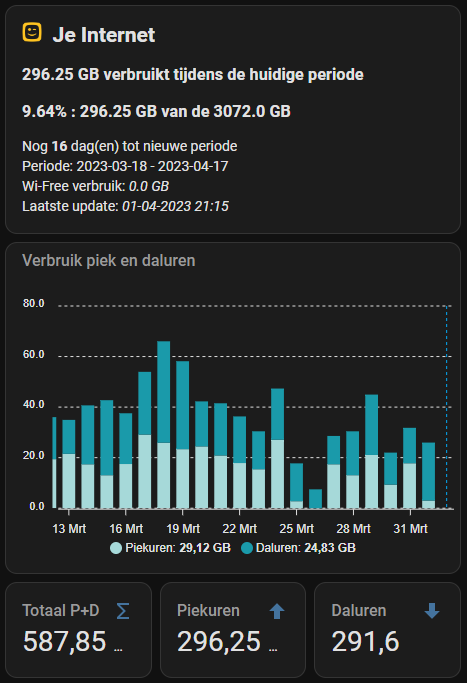
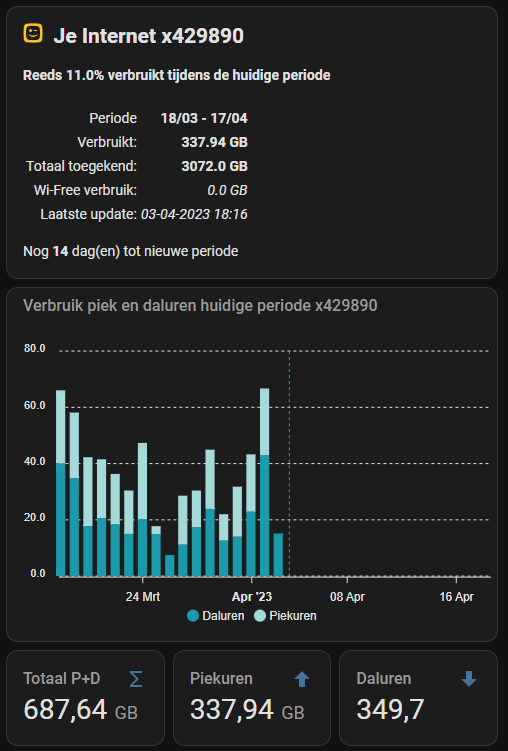
Readme and image for peak/offpeak

diff --git a/README.md b/README.md
@@ -100,96 +100,123 @@ recorder:
 
 <details><summary>Show markdown code</summary>
 
-**Replace &lt;identifier&gt; by your Telenet identifier and &lt;customer_id&gt; by your Telenet account ID**
+**Replace &lt;identifier&gt; by your Telenet identifier**
+
+(Only at 2 places)
 
 ```
 type: vertical-stack
 cards:
-  - type: markdown
-    content: >-
-      ## <img src="https://brands.home-assistant.io/telenet/icon.png"
-      width="20"/>&nbsp;&nbsp;Je Internet
+  - type: custom:config-template-card
+    variables:
+      internet:
+        identifier: <identifier>
+    entities:
+      - ${"sensor.telenet_"+internet.identifier+"_internet_usage"}
+    card:
+      type: vertical-stack
+      cards:
+        - type: markdown
+          content: >-
+            {% set identifier = "<identifier>"%} {% set internet_usage =
+            "sensor.telenet_"+identifier+"_internet_usage"%}
 
-      ###
-      **{{state_attr('sensor.telenet_<identifier>_internet_usage','total_usage')}}**
-      verbruikt tijdens de huidige periode
+            ## <img src="https://brands.home-assistant.io/telenet/icon.png"
+            width="20"/>&nbsp;&nbsp;Je Internet {{identifier}}
+
+            #### Reeds **{{state_attr(internet_usage,'used_percentage')}}%**
+            verbruikt tijdens de huidige periode
+
+            |||
+
+            |----:|----:|
+
+            | Periode | **{{state_attr(internet_usage,'start_date')|
+            as_timestamp | timestamp_custom("%d/%m")}} -
+            {{state_attr(internet_usage,'end_date')| as_timestamp |
+            timestamp_custom("%d/%m")}}**
+
+            | Verbruikt:|**{{state_attr(internet_usage,'total_usage')}}**
+
+            |Totaal
+            toegekend:|**{{state_attr(internet_usage,'allocated_usage')}}**
+
+            |Wi-Free verbruik:| *{{state_attr(internet_usage,'wifree_usage')}}*
+
+            |Laatste update: |*{{state_attr(internet_usage,'last_update') |
+            as_timestamp | timestamp_custom("%d-%m-%Y %H:%M")}}*
 
 
-      ###
-      **{{state_attr('sensor.telenet_<identifier>_internet_usage','used_percentage')}}**%
-      :
-      {{state_attr('sensor.telenet_<identifier>_internet_usage','total_usage')}}
-      van de
-      {{state_attr('sensor.telenet_<identifier>_internet_usage','allocated_usage')}}
+            Nog **{{state_attr(internet_usage,'days_until')}}** dag(en) tot
+            nieuwe periode
+        - type: custom:apexcharts-card
+          apex_config:
+            tooltip:
+              enabled: true
+            x:
+              show: false
+              format: dd MMMM
+            fixed:
+              enabled: true
+              position: topLeft
+              offsetX: 70
+              offsetY: 10
+          span:
+            end: day
+            offset: >-
+              ${'+'+states['sensor.telenet_'+internet.identifier+'_internet_usage'].attributes.days_until+'d'}
+          stacked: true
+          graph_span: 1month
+          header:
+            standard_format: false
+            show: true
+            show_states: false
+            title: ${'Verbruik piek en daluren huidige periode '+internet.identifier}
+          now:
+            show: true
+          series:
+            - entity: ${'sensor.telenet_'+internet.identifier+'_internet_daily_usage'}
+              name: Daluren
+              type: column
+              color: 1A9AAA
+              show:
+                legend_value: false
+              float_precision: 2
+              data_generator: |
+                return entity.attributes.daily_date.map((day, index) => {
+                  return [new Date(day), entity.attributes.daily_off_peak[index]];
+                });
+            - entity: ${'sensor.telenet_'+internet.identifier+'_internet_daily_usage'}
+              name: Piekuren
+              type: column
+              color: A6D9D9
+              show:
+                legend_value: false
+              float_precision: 2
+              data_generator: |
+                return entity.attributes.daily_date.map((day, index) => {
+                  return [new Date(day), entity.attributes.daily_peak[index]];
+                });
+        - type: horizontal-stack
+          cards:
+            - type: entity
+              name: Totaal P+D
+              attribute: total_usage_with_offpeak
+              entity: ${'sensor.telenet_'+internet.identifier+'_internet_usage'}
+              icon: mdi:sigma
+              unit: GB
+            - type: entity
+              name: Piekuren
+              attribute: peak_usage
+              entity: ${'sensor.telenet_'+internet.identifier+'_internet_usage'}
+              unit: GB
+              icon: mdi:arrow-up-bold
+            - type: entity
+              name: Daluren
+              attribute: offpeak_usage
+              entity: ${'sensor.telenet_'+internet.identifier+'_internet_usage'}
+              icon: mdi:arrow-down-bold
 
-
-      Nog
-      **{{state_attr('sensor.telenet_<identifier>_internet_usage','days_until')}}**
-      dag(en) tot nieuwe periode
-
-      Periode:
-      {{state_attr('sensor.telenet_<identifier>_internet_usage','start_date')}}
-      -
-      {{state_attr('sensor.telenet_<identifier>_internet_usage','end_date')}}
-
-      Wi-Free verbruik:
-      *{{state_attr('sensor.telenet_<identifier>_internet_usage','wifree_usage')}}*
-
-      Laatste update:
-      *{{state_attr('sensor.telenet_<identifier>_internet_usage','last_update')
-      | as_timestamp | timestamp_custom("%d-%m-%Y %H:%M")}}*
-  - type: custom:apexcharts-card
-    graph_span: 20d
-    span:
-      start: hour
-      offset: '-20d'
-    stacked: true
-    header:
-      standard_format: false
-      show: true
-      show_states: false
-      title: Verbruik piek en daluren
-    now:
-      show: true
-    series:
-      - entity: sensor.telenet_<identifier>_internet_daily_usage
-        name: Piekuren
-        type: column
-        color: A6D9D9
-        float_precision: 2
-        data_generator: |
-          return entity.attributes.daily_date.map((day, index) => {
-            return [new Date(day), entity.attributes.daily_peak[index]];
-          });
-      - entity: sensor.telenet_<identifier>_internet_daily_usage
-        name: Daluren
-        type: column
-        color: 1A9AAA
-        float_precision: 2
-        data_generator: |
-          return entity.attributes.daily_date.map((day, index) => {
-            return [new Date(day), entity.attributes.daily_off_peak[index]];
-          });
-  - type: horizontal-stack
-    cards:
-      - type: entity
-        name: Totaal P+D
-        attribute: total_usage_with_offpeak
-        entity: sensor.telenet_<identifier>_internet_usage
-        icon: mdi:sigma
-        unit: GB
-      - type: entity
-        name: Piekuren
-        attribute: peak_usage
-        entity: sensor.telenet_<identifier>_internet_usage
-        icon: mdi:arrow-up-bold
-        unit: GB
-      - type: entity
-        name: Daluren
-        attribute: offpeak_usage
-        entity: sensor.telenet_<identifier>_internet_usage
-        icon: mdi:arrow-down-bold
-        unit: GB
 
 ```
 
